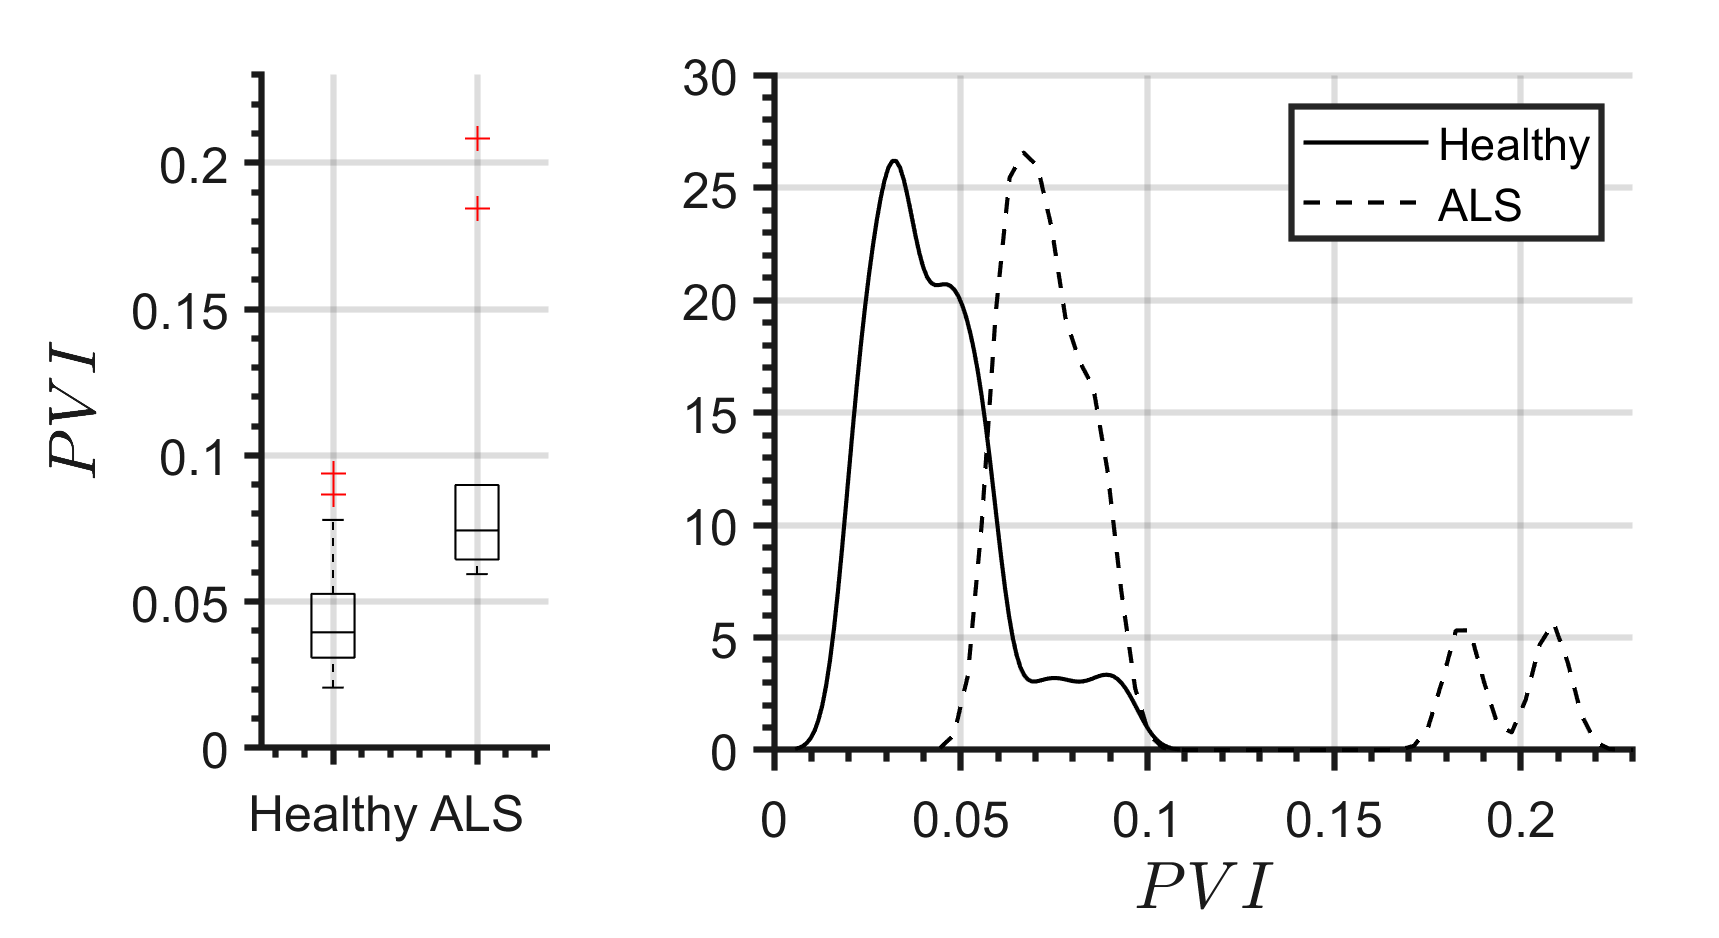
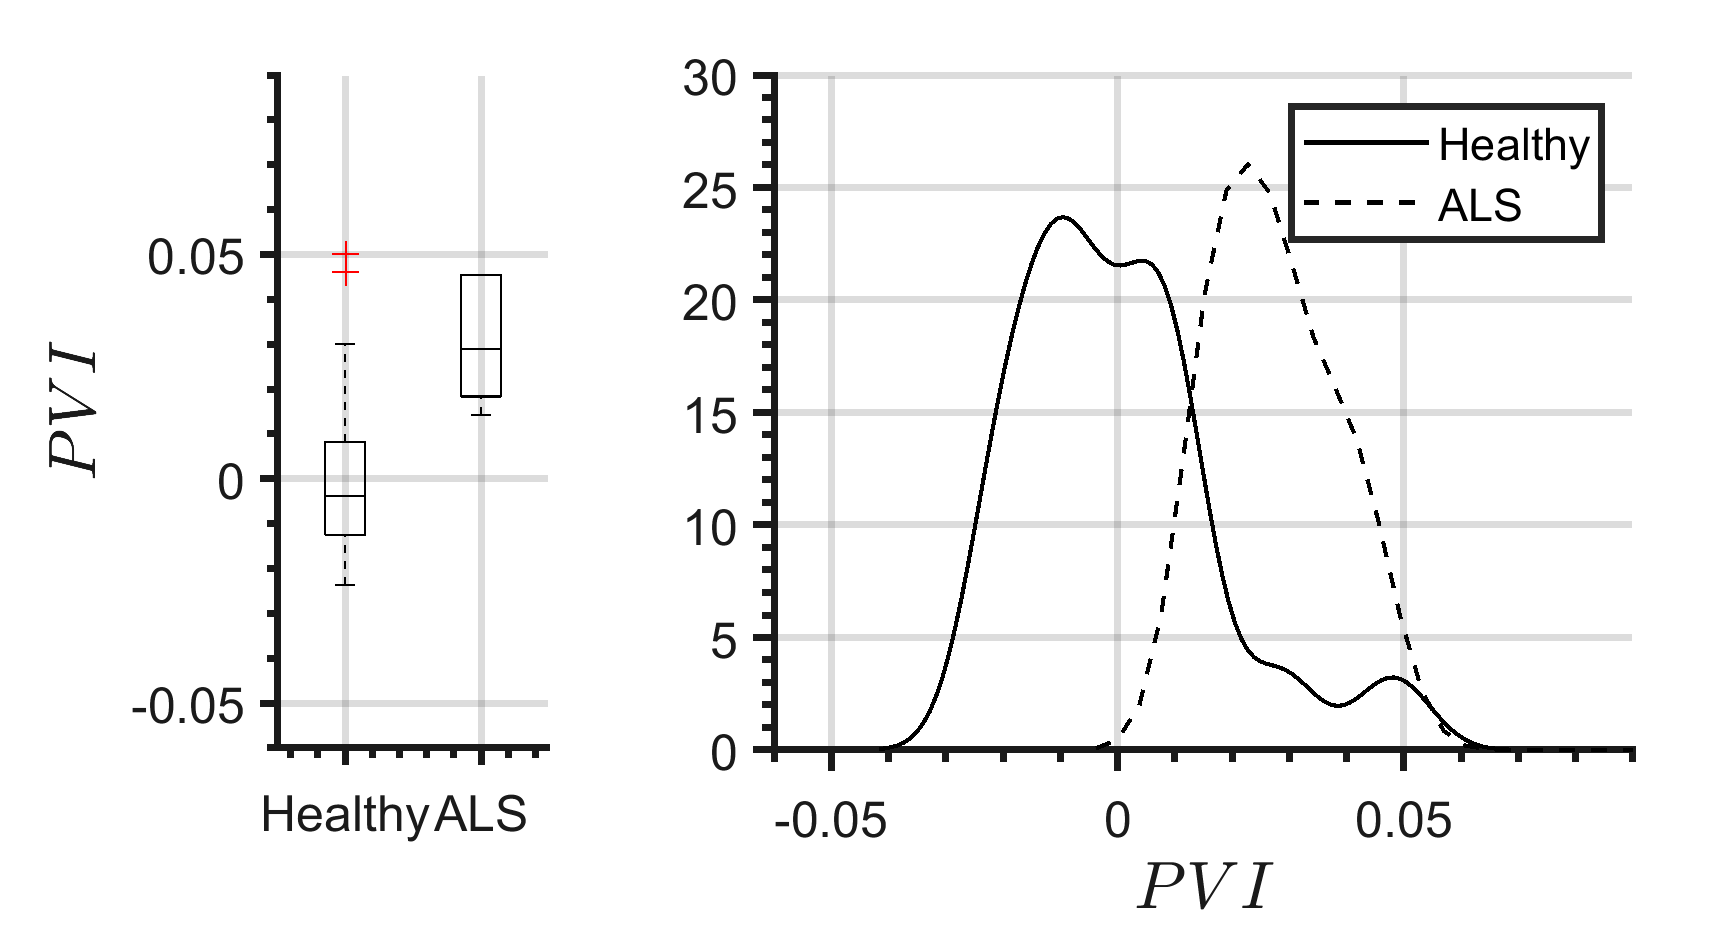
Age effect removing function is done.

diff --git a/SPA2019/boxplot_statistics.m b/SPA2019/boxplot_statistics.m
@@ -20,25 +20,25 @@ end
 % Uncomment the following lines to see Jitter:loc statistics
 % % feature = 'J_{loc}';
 % % ind = 1;
-% % range_feature = linspace(0,2.0,100);  
+% % range_feature = linspace(-0.7,1.4,100);  
 % % band_width = 0.070;
 
 % Uncomment the following lines Jitter:RAP statistics
-feature = 'J_{rap}';
-ind = 2;
-range_feature = linspace(0,1.1,100);  
-band_width = 0.04;
+% % feature = 'J_{rap}';
+% % ind = 2;
+% % range_feature = linspace(0,1.1,100);  
+% % band_width = 0.04;
 
 % Uncomment the following lines to see Jitter:PPQ5 statistics
 % % feature = 'J_{ppq5}';
 % % ind = 3;
-% % range_feature = linspace(0,1.1,100);  
-% % band_width = 0.04;
+% % range_feature = linspace(-0.5,0.8,100);  
+% % band_width = 0.05;
 
 % Uncomment the following lines to see Shimmer:loc statistics
 % % feature = 'Sh_{loc}';
 % % ind = 4;
-% % range_feature = linspace(0,12,100); 
+% % range_feature = linspace(-5,7,100); 
 % % band_width = 0.4;
 
 % Uncomment the following lines to see APQ3 statistics
@@ -56,18 +56,18 @@ band_width = 0.04;
 % Uncomment the following lines to see APQ11 statistics
 % % feature = 'Sh_{apq11}';
 % % ind = 7;
-% % range_feature = linspace(0,9,80); 
+% % range_feature = linspace(-4,5,80); 
 % % band_width = 0.3;
 
 % Uncomment the following lines to see PVI statistics
-% % if (strcmpi(type,'trop'))
-% %     feature = 'PVI'; % PVI only for Tropation-based dataset
-% %     ind = 8;
-% %     range_feature = linspace(0,0.23,100); 
-% %     band_width = 0.005;
-% % else
-% %     error('Wrong dataset.');
-% % end
+if (strcmpi(type,'trop'))
+    feature = 'PVI'; % PVI only for Tropation-based dataset
+    ind = 8;
+    range_feature = linspace(-0.06,0.09,100); 
+    band_width = 0.006;
+else
+    error('Wrong dataset.');
+end
 
 
 dataset_h_size = length(dataset_h);

diff --git a/SPA2019/age_effect_remove.m b/SPA2019/age_effect_remove.m
@@ -26,5 +26,16 @@ for N=1:n
    age_regression(N,:) = x';
 end
 
+% 3. Remove age offset
+% Controls
+for M=1:m      
+    data_h(M).feature_vec = data_h(M).feature_vec - (age_regression(:,1)*data_h(M).age + age_regression(:,2))';
+end
+
+% Pathology
+m = length(data_p);
+for M=1:m   
+    data_p(M).feature_vec = data_p(M).feature_vec - (age_regression(:,1)*data_p(M).age + age_regression(:,2))';
+end
 end
 

diff --git a/SPA2019/feature_extraction_SPA2019.m b/SPA2019/feature_extraction_SPA2019.m
@@ -86,7 +86,7 @@ for i=1:length(file)
     end
         
 end
-
+%%
 [dataset_trop_p, dataset_trop_h] = age_effect_remove(dataset_trop_p, dataset_trop_h);
 
 % save('dataset_trop_h.mat','dataset_trop_h');
